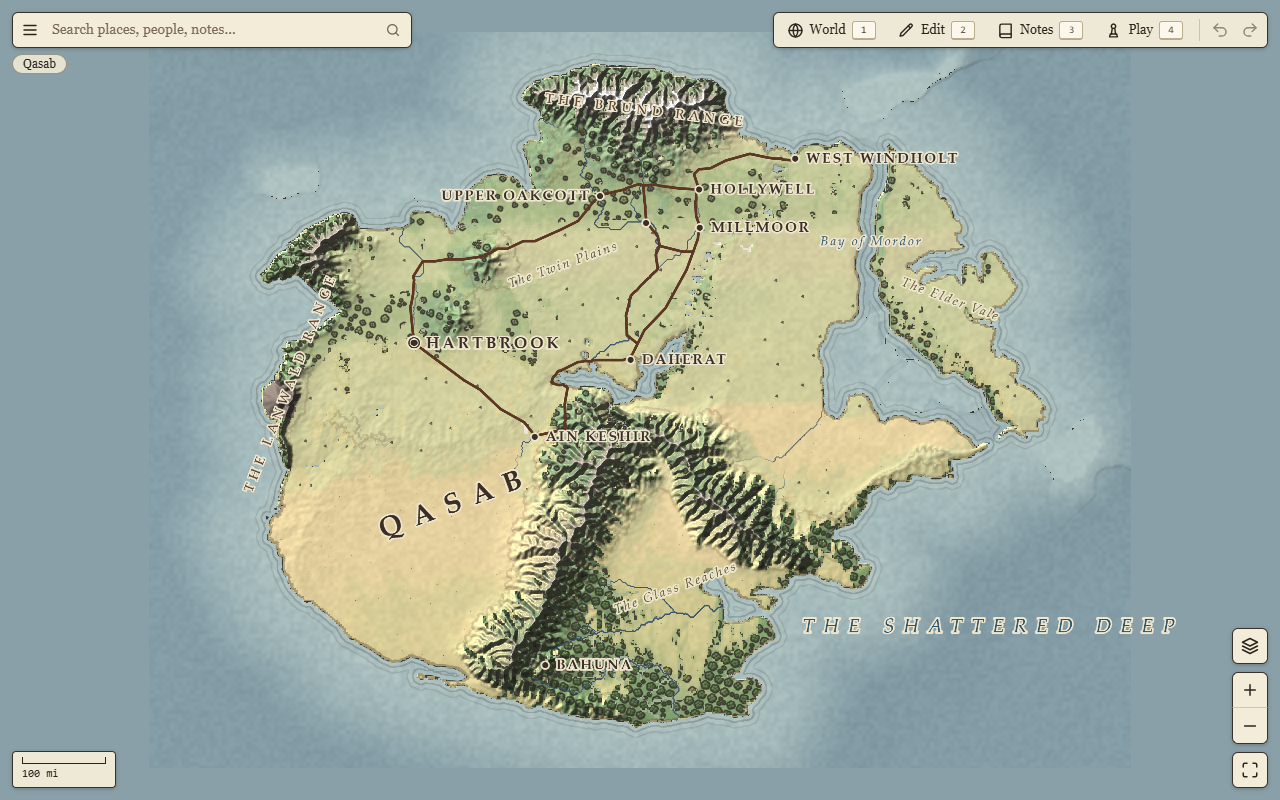
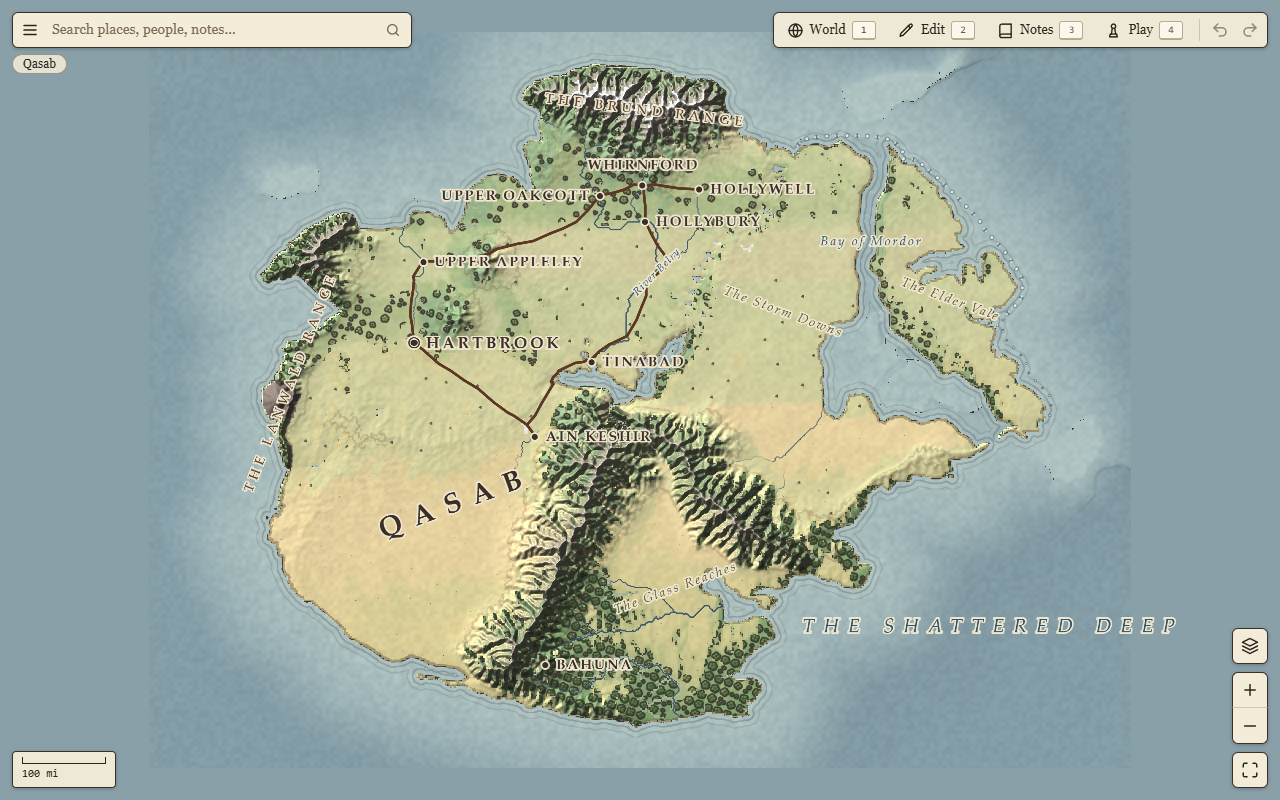
Release v64: GEN 64
Roadmap 5. One generator bump for the whole roadmap.
- Settlements grown by economy, planned tiers, culture
- Islands, sea lanes, ferries, islets and moored boats
- Harbours: breakwaters, lighthouses, bridge houses
- Walls: palisade, earth, bastions, joined wall ends
- Caves, ice, lava and mines; raised floors and ledges
- Villages, cemeteries, steppe yurts and felt halls
- Settlement UI: culture, tier, move, restore, remake
- MCP tools for sketch, towns, harbours, buildings
- README pictures redrawn (zoom.gif not remade)

diff --git a/app/src/world/world.ts b/app/src/world/world.ts
@@ -6,7 +6,7 @@ import { assetIds, bundleAssets } from './assets';
 import { PINNED } from './versions';
 
 /** Must match `worldgen::world::GEN_VERSION`. */
-export const GEN_VERSION = 63;
+export const GEN_VERSION = 64;
 
 export const DEFAULT_PARAMS: WorldParams = {
   width_mi: 1200,

diff --git a/crates/worldgen/src/world.rs b/crates/worldgen/src/world.rs
@@ -12,7 +12,7 @@ use crate::core::{
 };
 
 /// Bump whenever generator output changes for an unchanged world file.
-pub const GEN_VERSION: u32 = 63;
+pub const GEN_VERSION: u32 = 64;
 
 /// Prevailing winds: latitude belts (trades, westerlies, polar easterlies) or one direction.
 #[derive(Clone, Copy, Debug, PartialEq, Eq, Serialize, Deserialize)]
